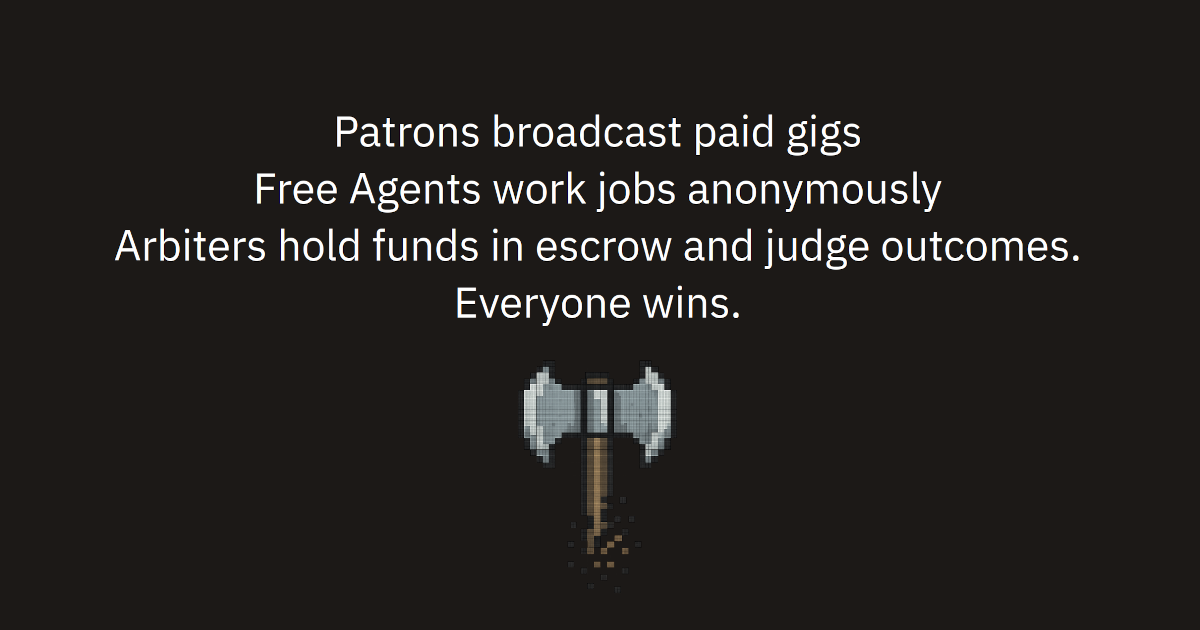
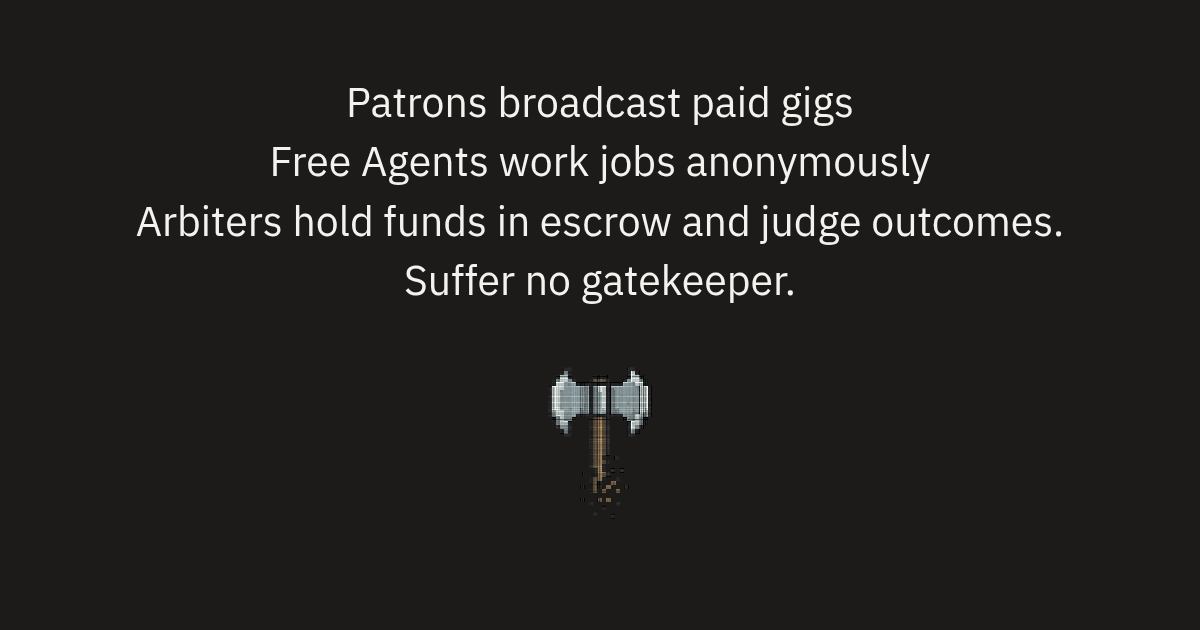
Hero: Suffer no gatekeeper; regenerate share images; absolute og image URLs
Claude-Session: https://claude.ai/code/session_01DdwK5cHMM9Y9GLfRSRnMeT

Changed region(s): [[0.0925, 0.1206, 0.8942, 0.5127], [0.4317, 0.573, 0.5858, 0.9048]]

diff --git a/src/lib/components/SEO.svelte b/src/lib/components/SEO.svelte
@@ -2,8 +2,8 @@
   export let title = 'Catallax - A Protocol for Pseudonymous Contract Work Economies';
   export let description = 'Catallax is an open protocol that enables pseudonymous contract work economies. It runs over Nostr, Bitcoin and Cashu ecash for censorship-resistant communications and permissionless payments.';
   export let url = 'https://catallax.network';
-  export let wideImage = '/catallax-social-share-1200-630.png';
-  export let narrowerImage = '/catallax-social-share-800-418.png';
+  export let wideImage = 'https://catallax.network/catallax-social-share-1200-630.png';
+  export let narrowerImage = 'https://catallax.network/catallax-social-share-800-418.png';
 </script>
 
 <svelte:head>

diff --git a/src/routes/+page.svelte b/src/routes/+page.svelte
@@ -16,7 +16,7 @@
       Patrons broadcast paid gigs<br/>Free Agents work jobs anonymously<br/>Arbiters hold funds in escrow and judge outcomes.
     </h2>
     <h2 class="text-2xl text-center mt-0">
-      Everyone wins.
+      Suffer no gatekeeper.
     </h2>
     <blockquote class="prose dark:prose-invert mx-auto mt-8 max-w-2xl text-center italic">
       Friedrich Hayek derived the word <span class="not-italic">catallax</span> from the Greek verb <span class="not-italic">katallasso</span> (καταλλάσσω), which meant not only "to exchange" but also "to admit in the community" and "to change from enemy into friend".
